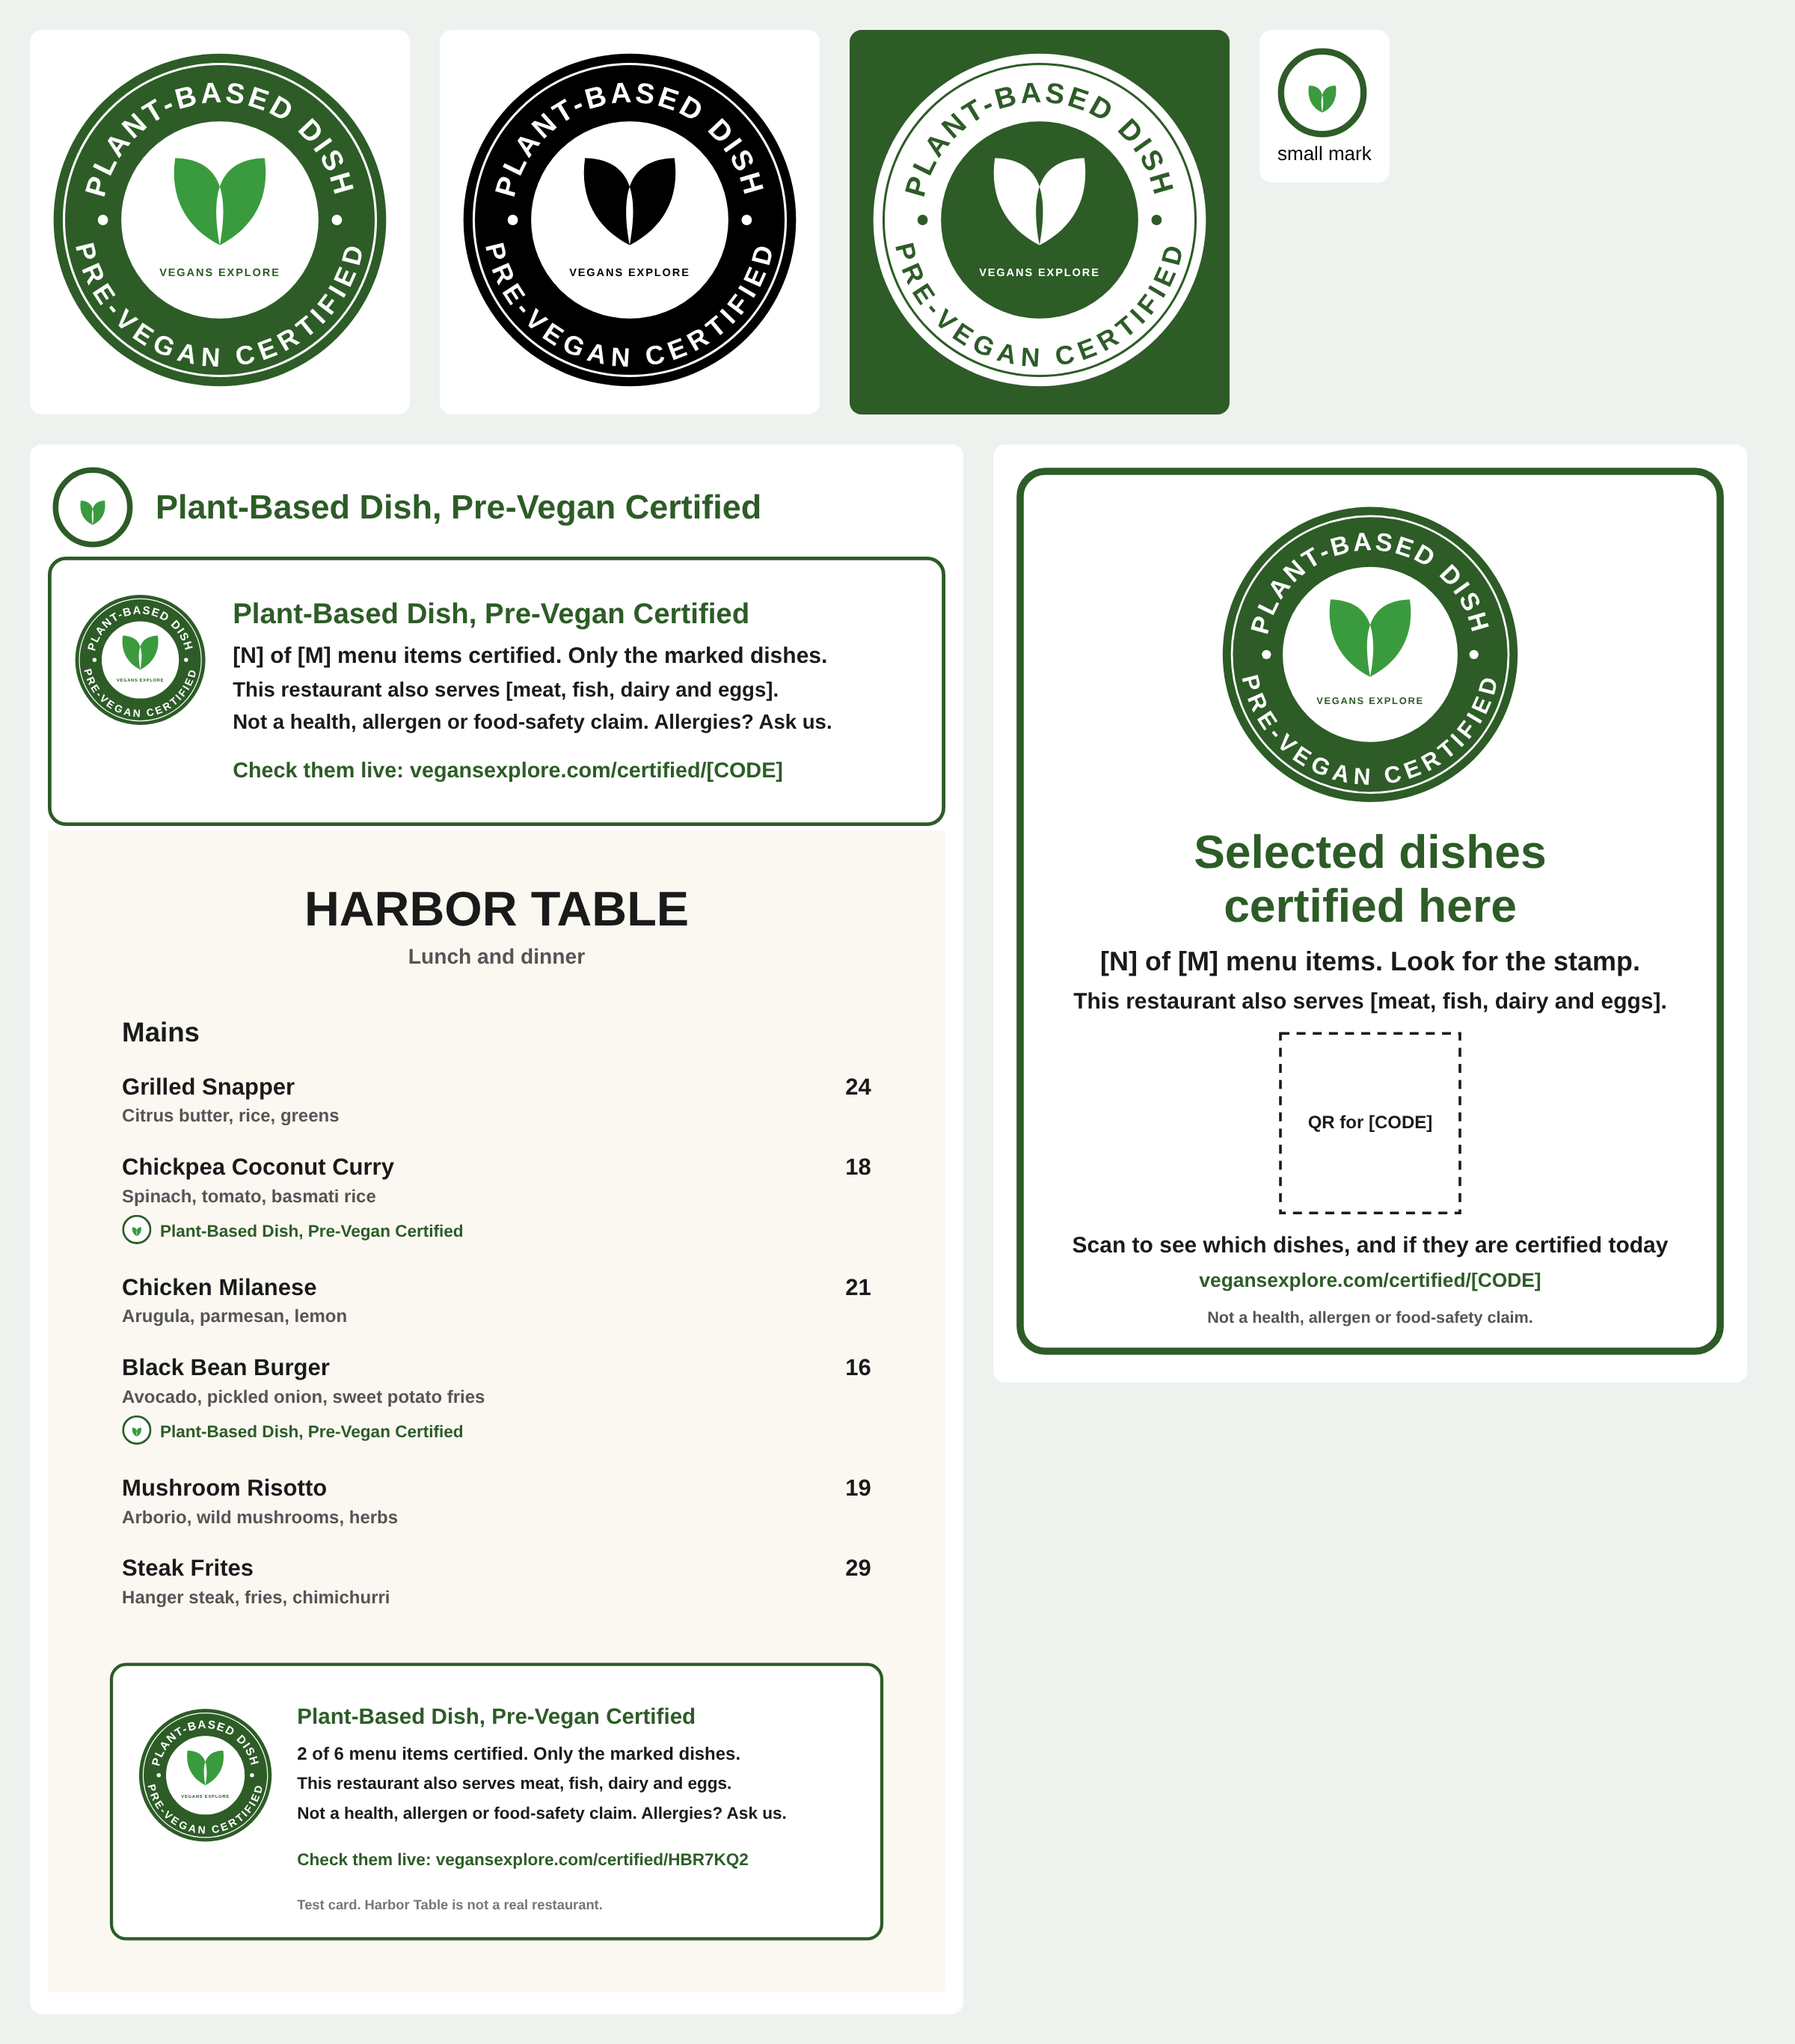
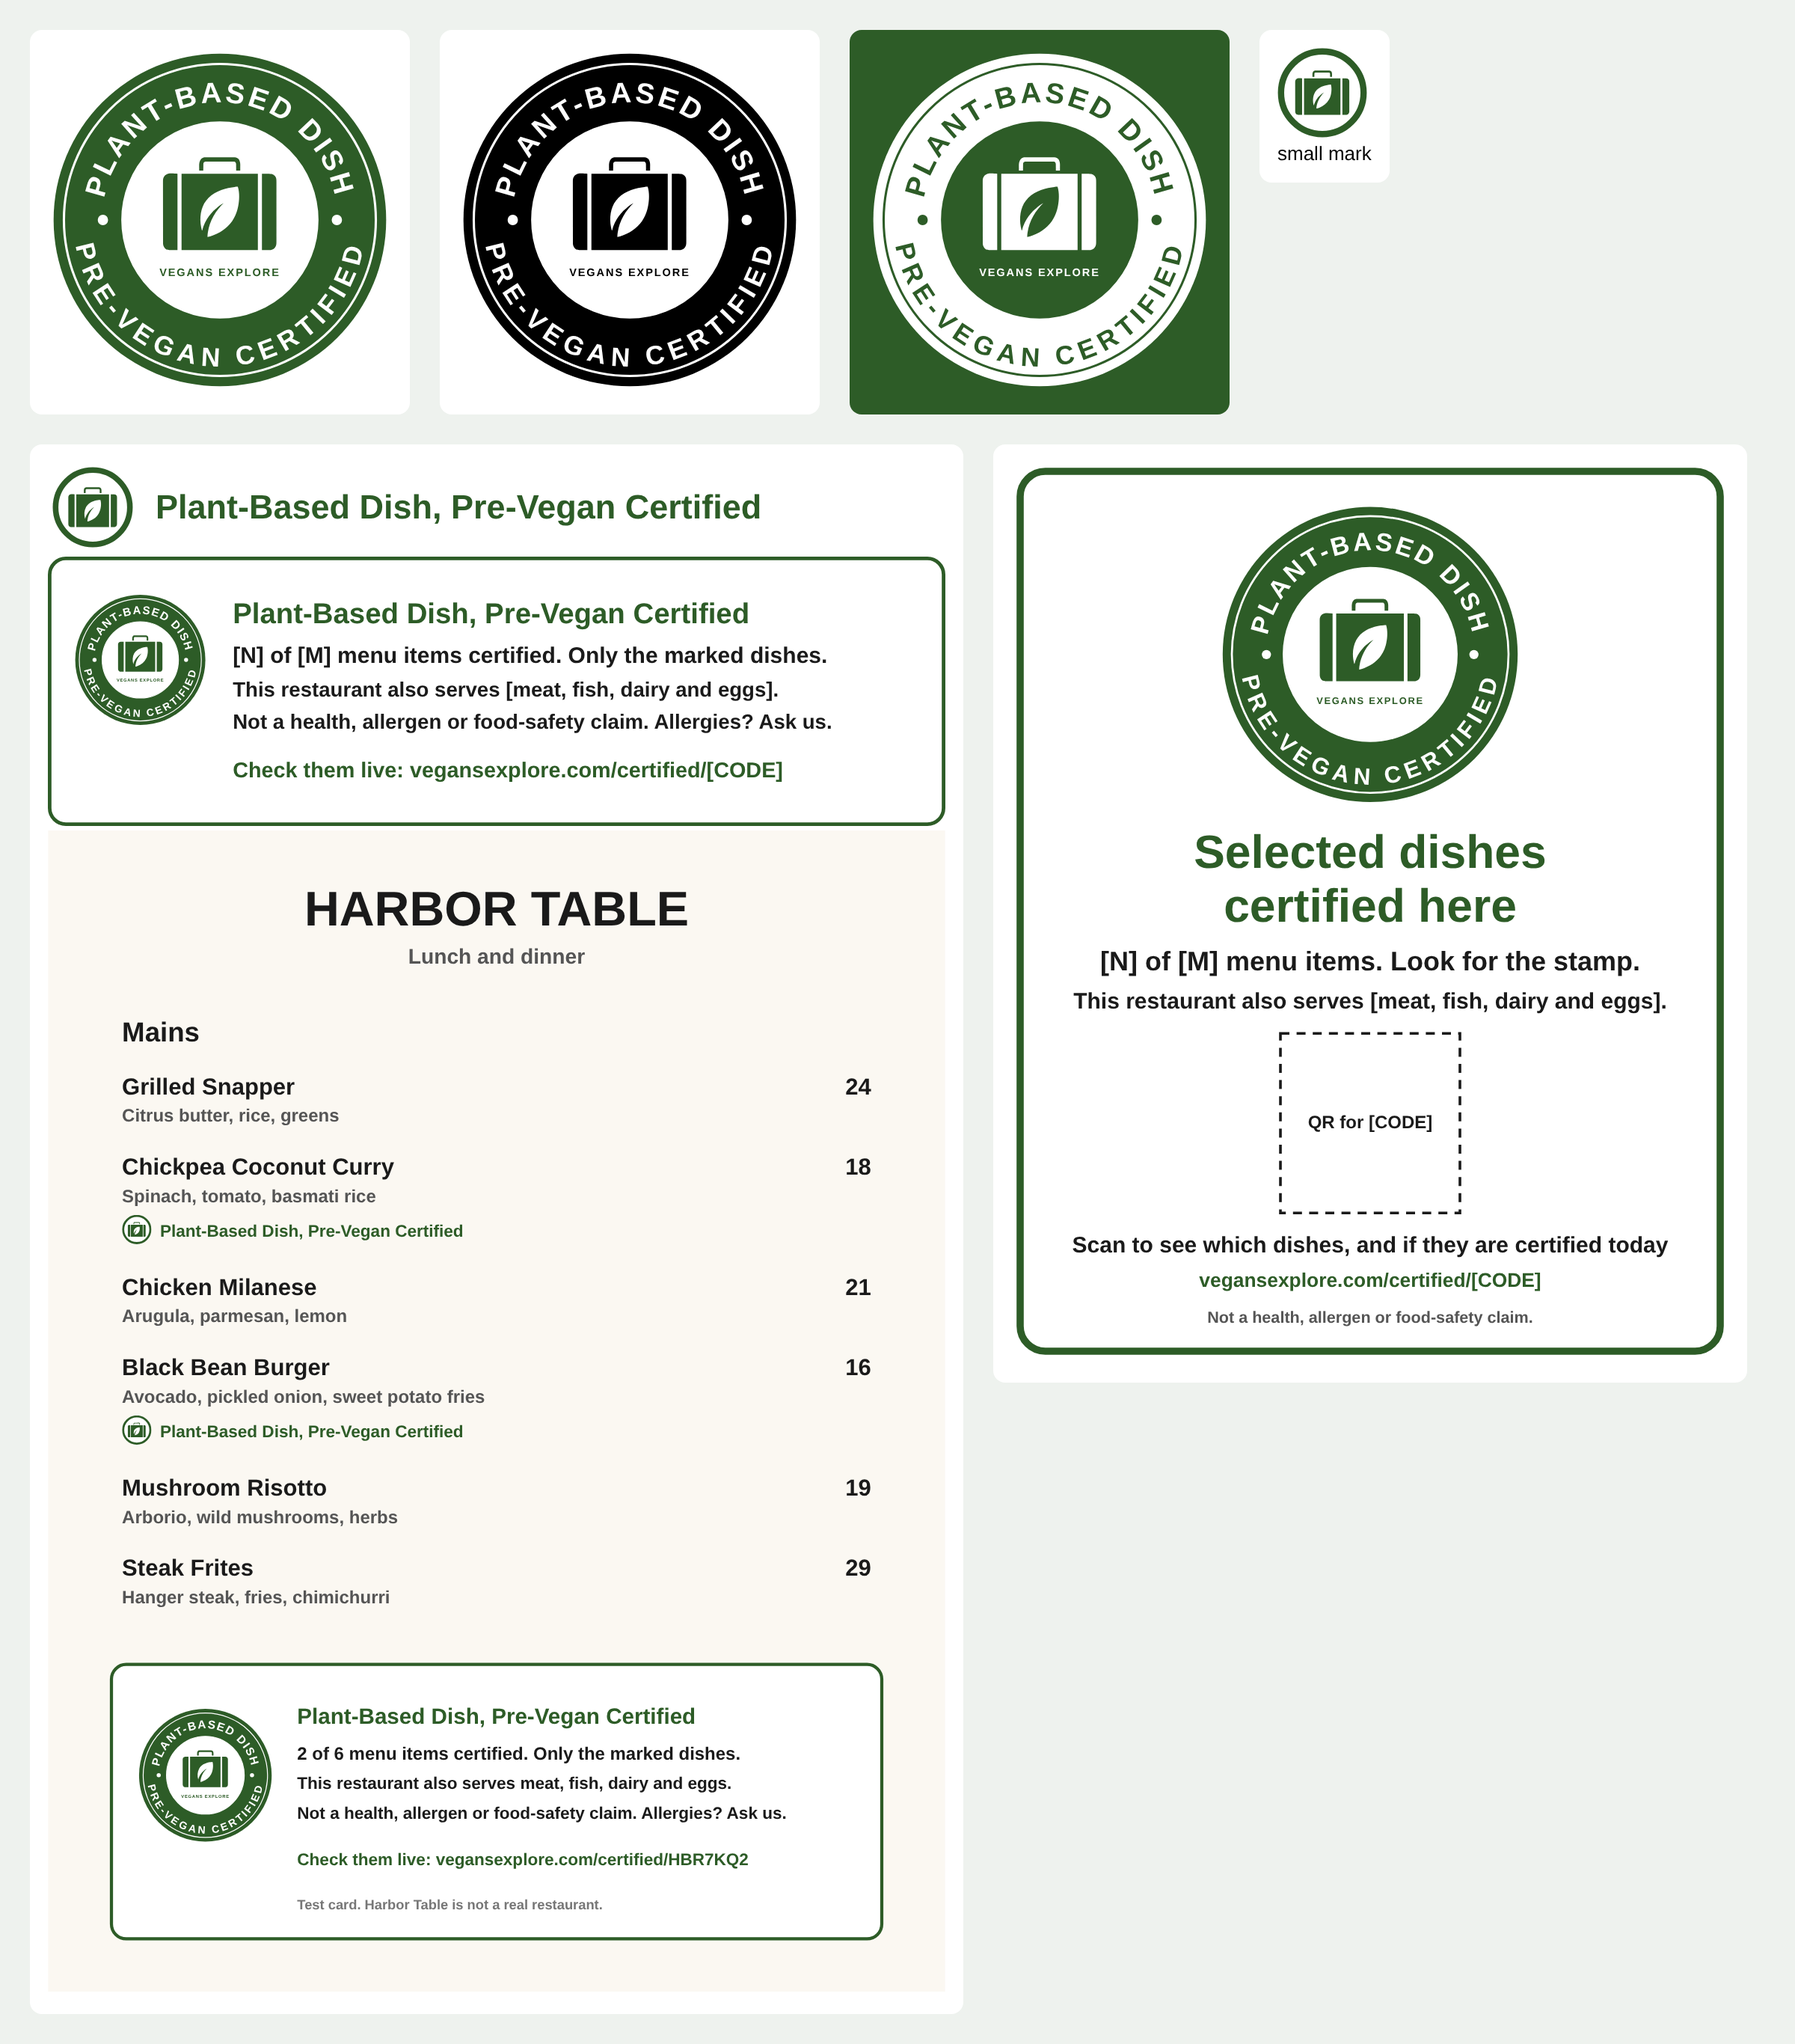
vegans-explore-initiative-business-certification: B5 stamp uses the Vegans Explore suitcase mark
Claude-Session: https://claude.ai/code/session_016TNa9Rr4LfHtyjMSQRCznU

diff --git a/docs/certification/b5-stamp-and-diner-test.md b/docs/certification/b5-stamp-and-diner-test.md
@@ -7,10 +7,10 @@ Draft for Sean, 2026-11-06 (Logan). Built from Standard V1.2 (playbook record 04
 
 | File | What it is | Where it goes |
 |---|---|---|
-| `stamp.svg` | The seal: PLANT-BASED DISH on top, PRE-VEGAN CERTIFIED below, the leaf, VEGANS EXPLORE | Menu key, decal, the status page. 1 inch or larger |
+| `stamp.svg` | The seal: PLANT-BASED DISH on top, PRE-VEGAN CERTIFIED below, our suitcase mark (from `public/ve-logo-mark.svg`, never redrawn), VEGANS EXPLORE | Menu key, decal, the status page. 1 inch or larger |
 | `stamp-mono.svg` | One color (black) | Menus printed in one color |
 | `stamp-reversed.svg` | White on forest green | Dark menus |
-| `stamp-small.svg` | Leaf in a ring, no words | Beside a dish on a menu or delivery app, under 1 inch, always with the words beside it |
+| `stamp-small.svg` | The suitcase mark in a ring, no words | Beside a dish on a menu or delivery app, under 1 inch, always with the words beside it |
 | `menu-line.svg` | Small mark + "Plant-Based Dish, Pre-Vegan Certified" | Under each certified dish |
 | `menu-key.svg` | The key: N of M, what else they serve, not an allergen claim, the live link | Once on every menu page that carries the mark |
 | `decal.svg` | Window decal, 8 x 10 in: "Selected dishes certified here", N of M, what else they serve, the QR, the link | Window or counter |
